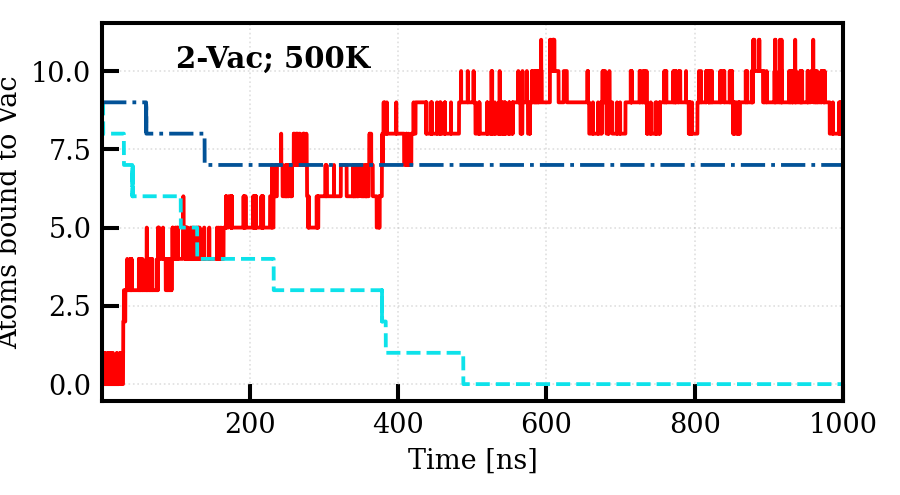
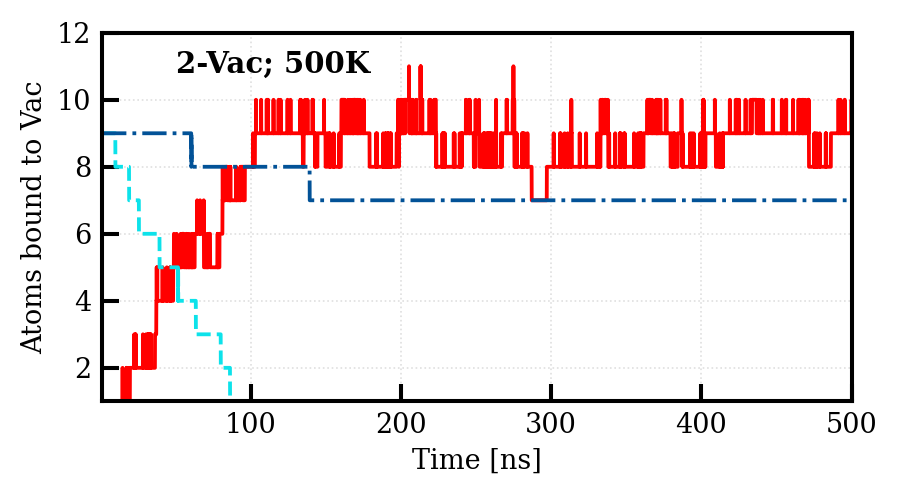
fix 2Vac figures

diff --git a/plotting-scripts/plot_2Vac_isoEx_comp.py b/plotting-scripts/plot_2Vac_isoEx_comp.py
@@ -9,7 +9,7 @@ from dataUtils import readData
 path += '2Vac_isoEx_results/'
 
 # HinVac.out format: Timestep NTinVac NHinVac NTinCell
-tTH_isoEx = readData(path+'2Vac_2000W_20H_10T_500K_1000ns/HinVac.out', [0,1,2])
+tTH_isoEx = readData(path+'2Vac_2000W_20H_10T_500K_500ns/HinVac.out', [0,1,2])
 tTH_diff  = readData(path+'2Vac_2000W_0H_10T_500K_1000ns/HinVac.out', [0,1,2])
 
 # Convert timesteps --> time in ns
@@ -40,10 +40,11 @@ init, final, step = [0,-1,70]
 plotter(tTH_isoEx[init:final:step, 0], tTH_isoEx[init:final:step,2], isoEx_style['H_iso'], isoEx_labels['H_iso'])
 plotter(tTH_isoEx[init:final:step, 0], tTH_isoEx[init:final:step,1], isoEx_style['T_iso'], isoEx_labels['T_iso'])
 plotter(tTH_diff[:, 0], tTH_diff[:, 1], isoEx_style['T_diff'], isoEx_labels['T_diff'])
-plt.xlim((1, 1000))
+plt.xlim((1, 500))
+plt.ylim((1,12))
 plt.xlabel(xlbl)
 plt.ylabel(ylbl)
-plt.text(100, 10.1, '2-Vac; 500K', font)
+plt.text(50, 10.8, '2-Vac; 500K', font)
 
 
 # Show & save figure
@@ -62,10 +63,11 @@ init, final, step = [0,-1,70]
 plotter(tTH_isoEx[init:final:step, 0], tTH_isoEx[init:final:step,2], isoEx_style['H_iso'], isoEx_labels['H_iso'])
 plotter(tTH_isoEx[init:final:step, 0], tTH_isoEx[init:final:step,1], isoEx_style['T_iso'], isoEx_labels['T_iso'])
 plotter(tTH_diff[:, 0], tTH_diff[:, 1], isoEx_style['T_diff'], isoEx_labels['T_diff'])
-plt.xlim((1, 1000))
+plt.xlim((1, 500))
+plt.ylim((1,12))
 plt.xlabel(xlbl)
 plt.ylabel(ylbl)
-plt.text(2, 10.1, '2-Vac; 500K', font)
+plt.text(2, 10.8, '2-Vac; 500K', font)
 leg = plt.legend(loc='center left', bbox_to_anchor=(0.03, 0.42))
 leg.get_frame().set_linewidth(1.5*pltm)  # Legend bow linewidth
 
